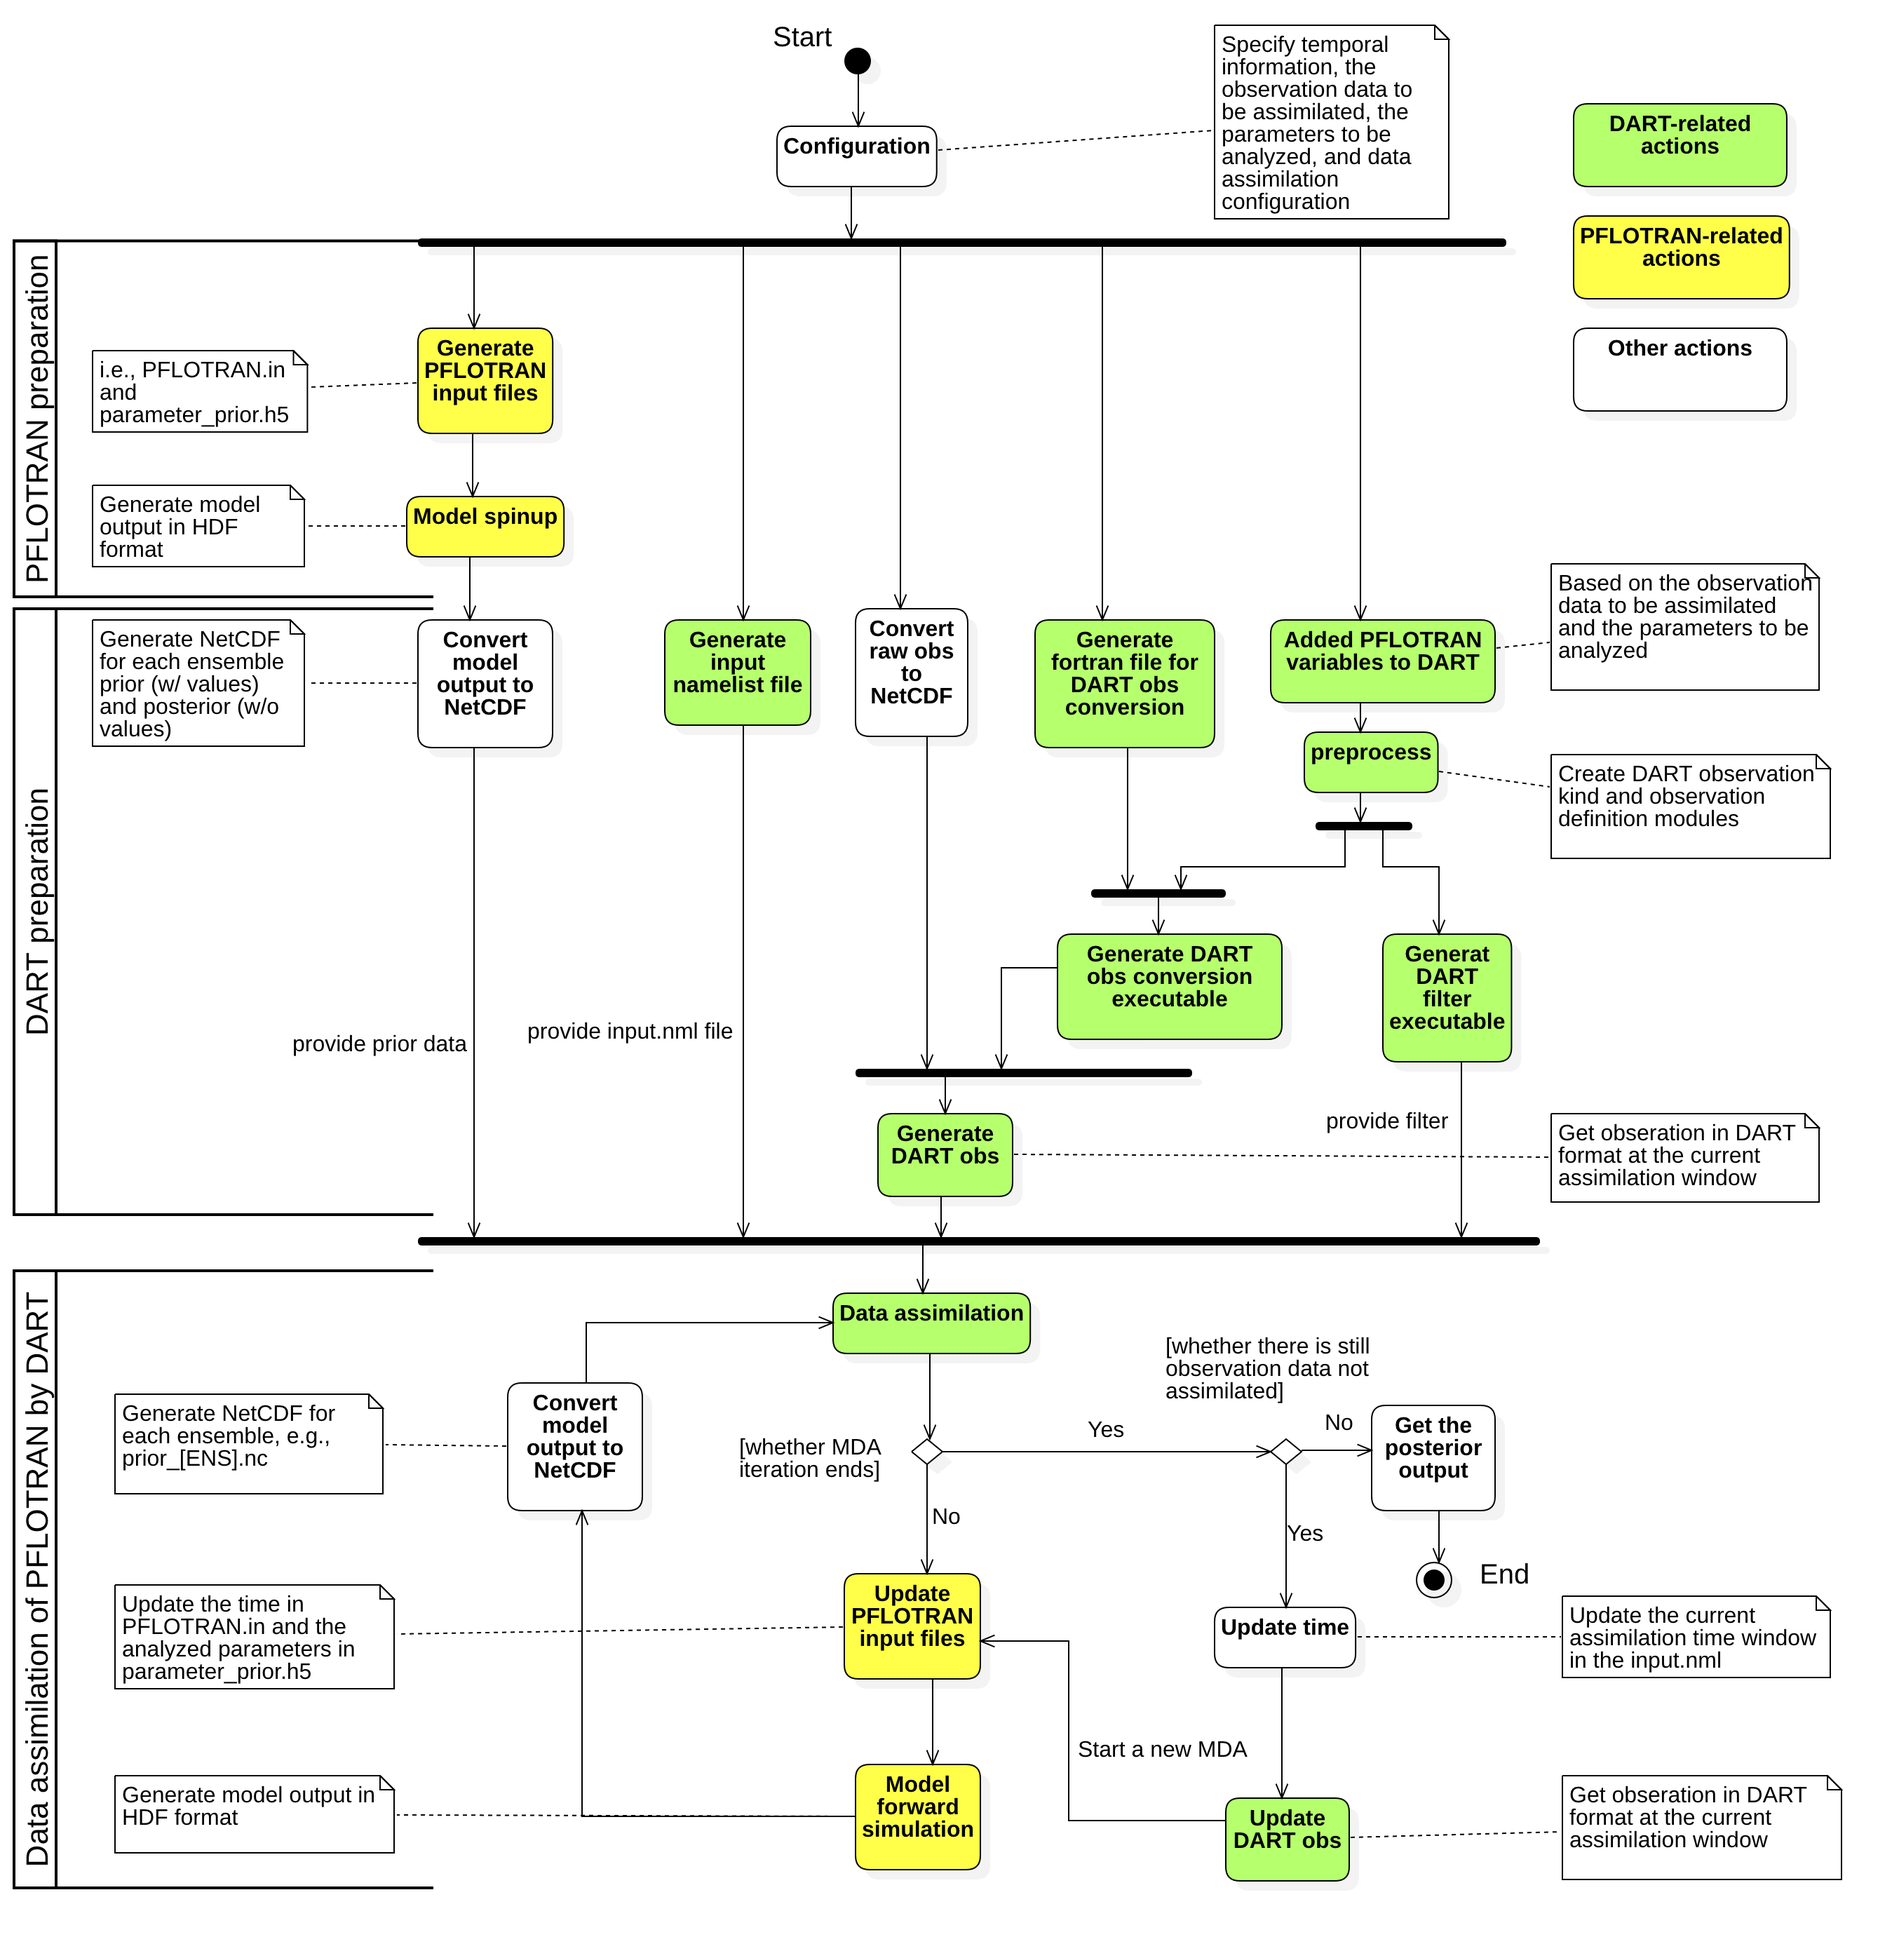
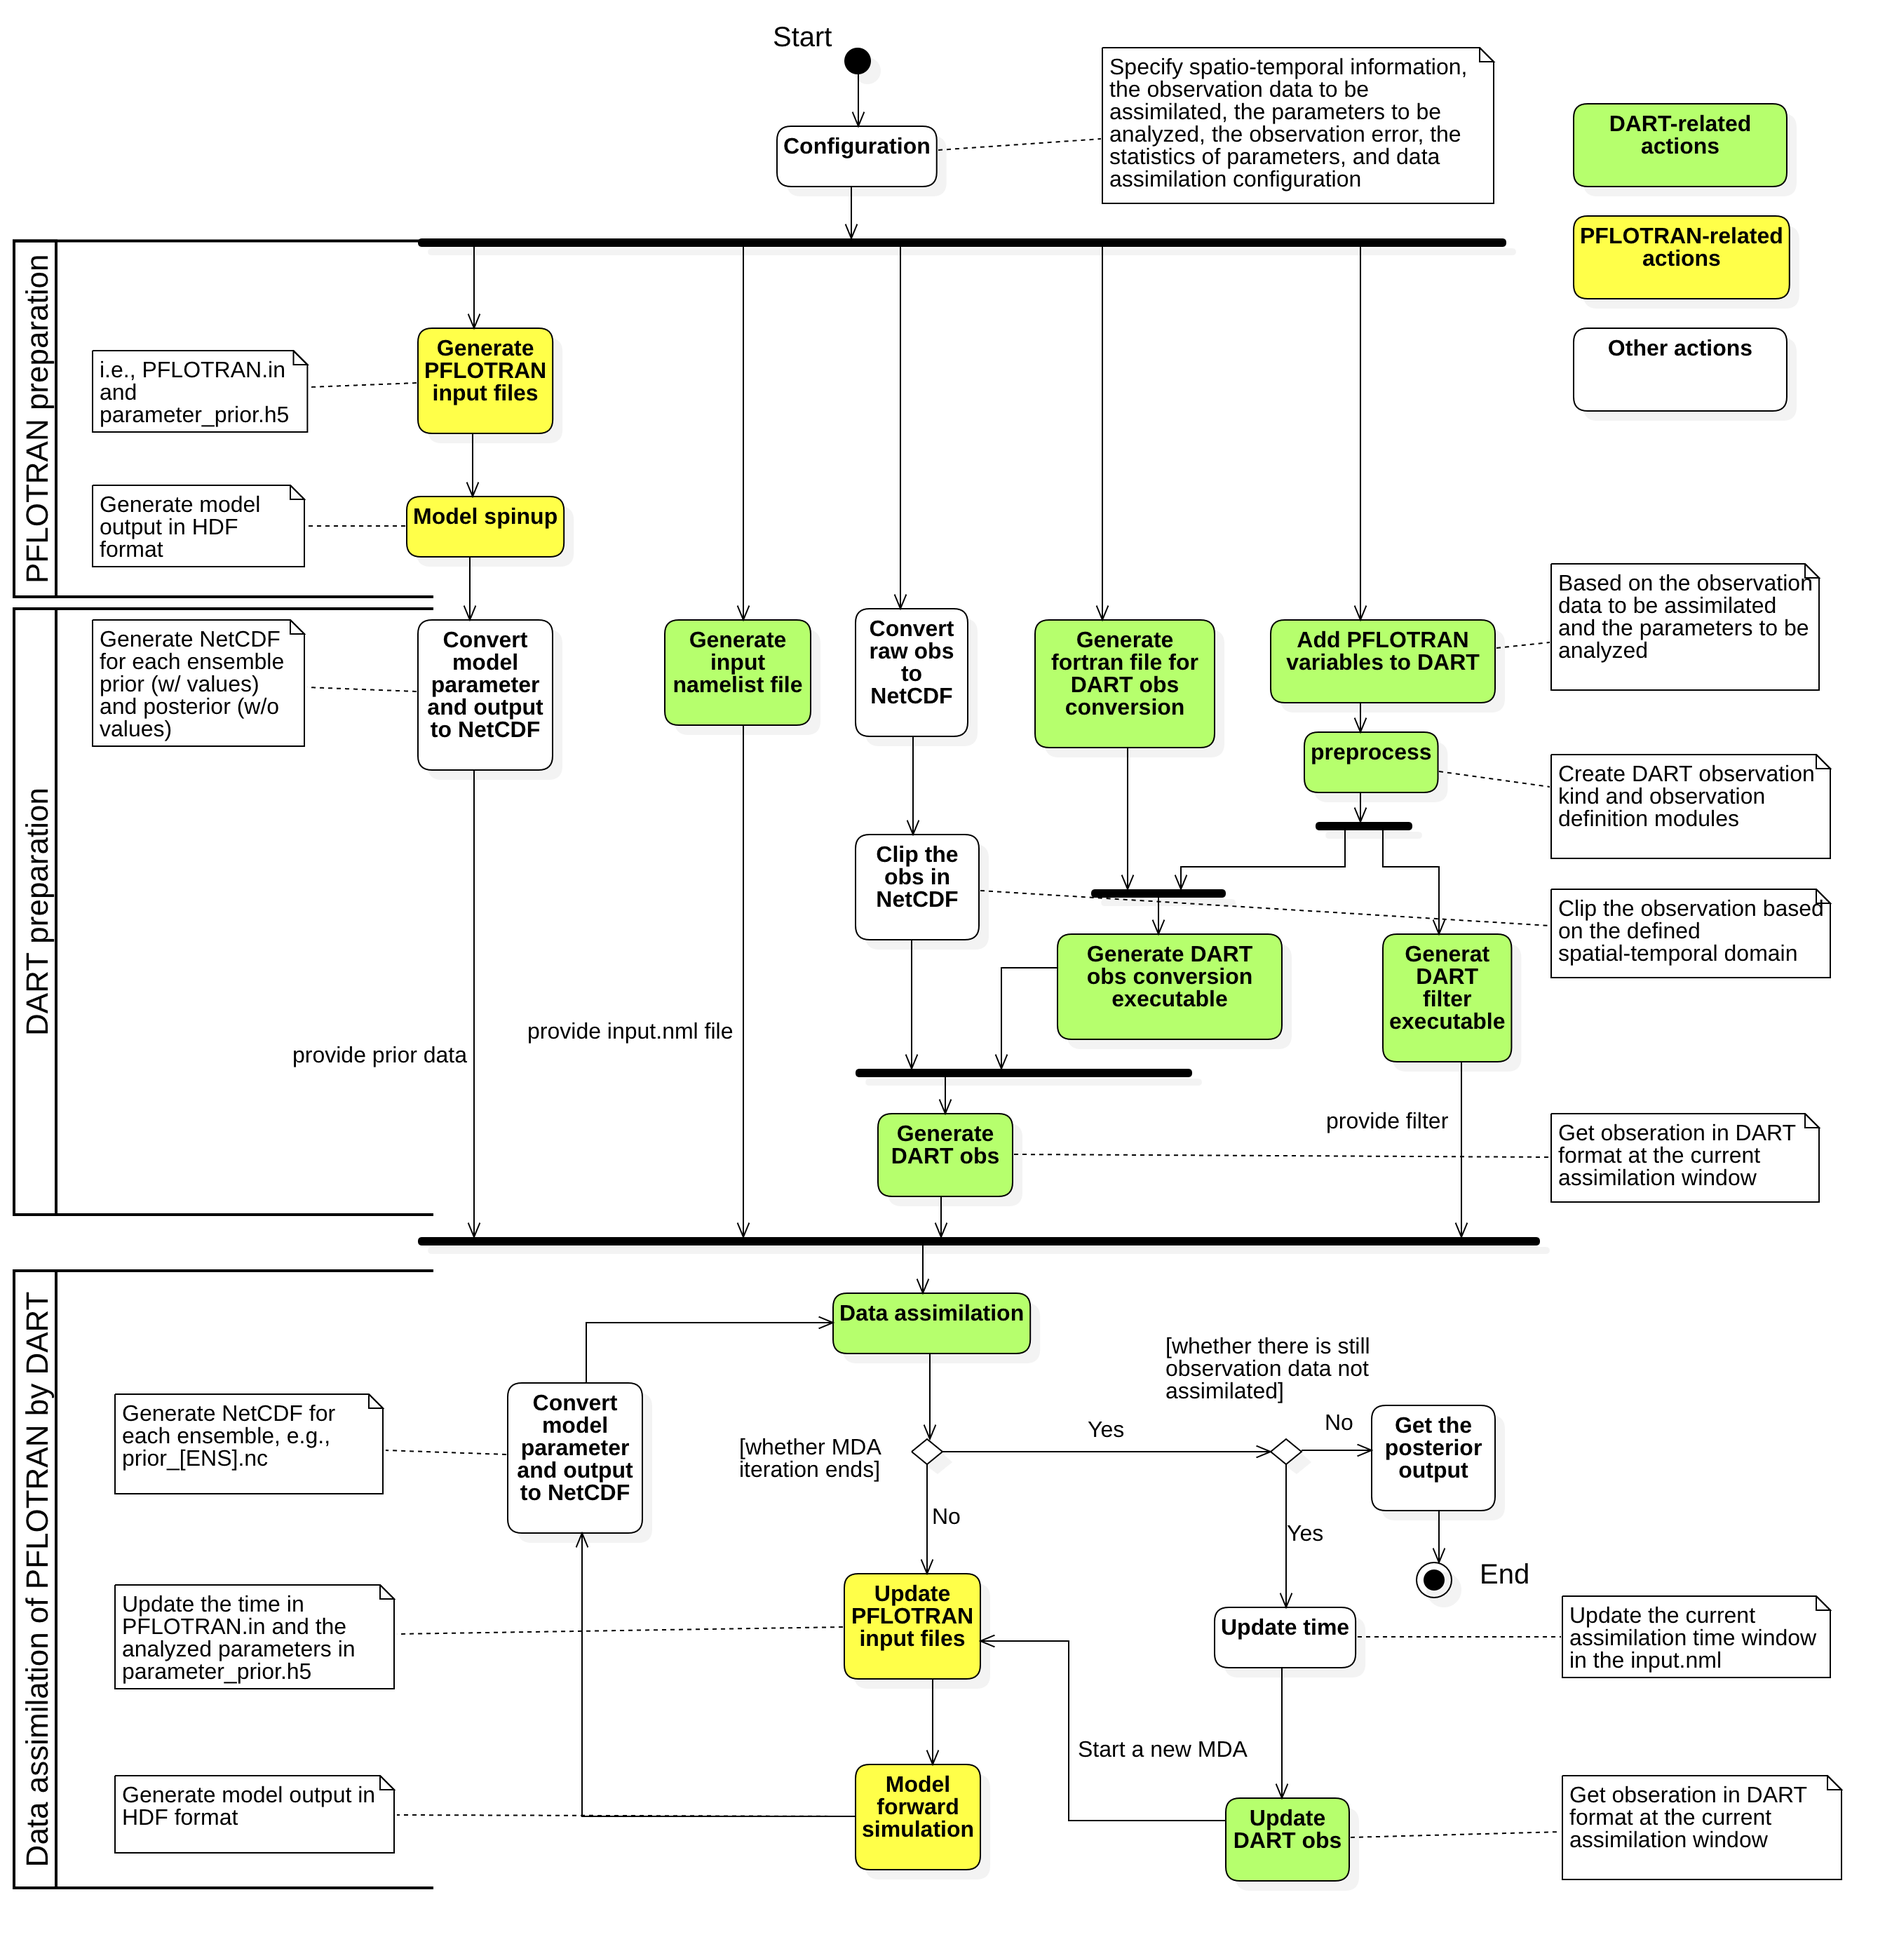
- Revised README file

diff --git a/README.md b/README.md
@@ -76,12 +76,19 @@ The main structure of this {PFLOTRAN-DART} repository is shown below:
 
 The following information are needed to configure the DART-PFLOTRAN for a specific application through the [jupyter notebook](./applications/workflow_ipynb/DART_PFLOTRAN_Integrate.ipynb):
 
-- The locations of PFLOTRAN executable and mpirun
-- The numbers of CPU cores used for PFLOTRAN and DART
-- The application folder name
-- The observation data to be assimilated and the PFLOTRAN parameters to be analyzed in DART
-- The temporal information (see below)
-- The data assimilation settings, which are configured through multiple [DART namelists](https://www.image.ucar.edu/DAReS/DART/manhattan/documentation/index.html#Namelists) in the input.nml file (e.g., [filter_nml](https://www.image.ucar.edu/DAReS/DART/manhattan/assimilation_code/modules/assimilation/filter_mod.html#Namelist) and [assim_tools_mod](https://www.image.ucar.edu/DAReS/DART/manhattan/assimilation_code/modules/assimilation/assim_tools_mod.html#Namelist))
+- General configuration
+    - The locations of PFLOTRAN executable and mpirun (**note that** the mpirun should be within the same MPI system as the mpi90 used in [DART mkmf.template](./INSTALL_DART.md))
+    - The numbers of CPU cores used for PFLOTRAN and DART
+    - The application folder name
+- The observation data and the model parameters
+    - The observation data to be assimilated and the PFLOTRAN parameters to be analyzed in DART
+    - The observation error and the associated types (i.e., relative and absolute errors)
+    - The statistics of the parameters: (1) the value range; (2) the mean and std for random sampling; and (3) the distribution to be sampled (i.e., normal, truncated normal, and uniform distributions).
+    - The list of parameters whose prior would be resampled based on the mean of the corresponding posterior at the previous time step.
+    - The spatial-temporal domain of the observation data to be assimilated (see below)
+- Other configurations
+    - The mapping between physical time and model time
+    - DART data assimilation settings (configured through multiple [DART namelists](https://www.image.ucar.edu/DAReS/DART/manhattan/documentation/index.html#Namelists) in the input.nml file (e.g., [filter_nml](https://www.image.ucar.edu/DAReS/DART/manhattan/assimilation_code/modules/assimilation/filter_mod.html#Namelist) and [assim_tools_mod](https://www.image.ucar.edu/DAReS/DART/manhattan/assimilation_code/modules/assimilation/assim_tools_mod.html#Namelist))
 
 For the temporal information, the model first spinup for a given period of time. Once the spinup is done, the model restarts with time t0, and begins to assimilate with fixed time window tau. Meanwhile, the actual observation time should be mapped to the model time start time t0.
 ![Model/Physical time domain](./figs/time_domain.png)
